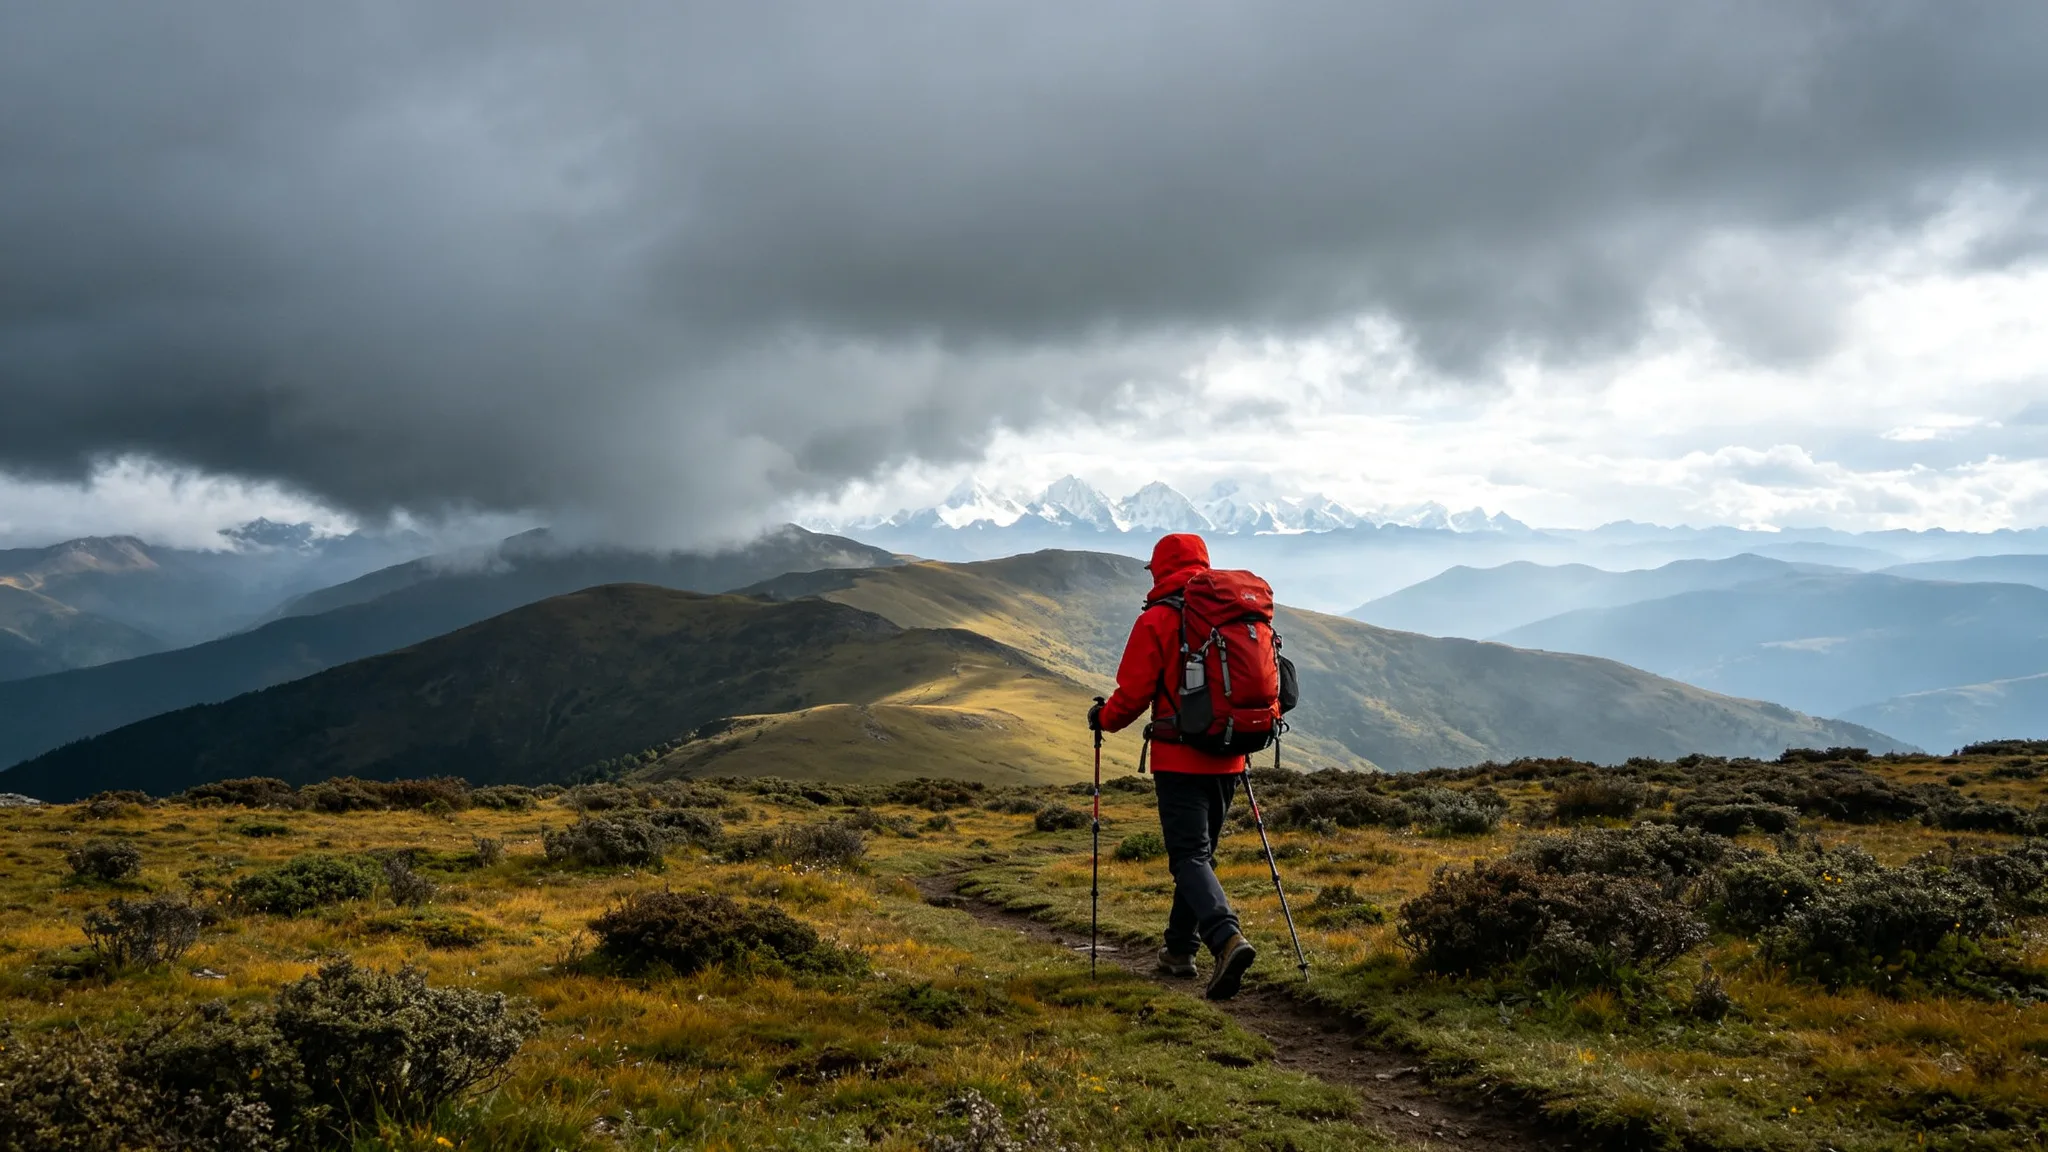
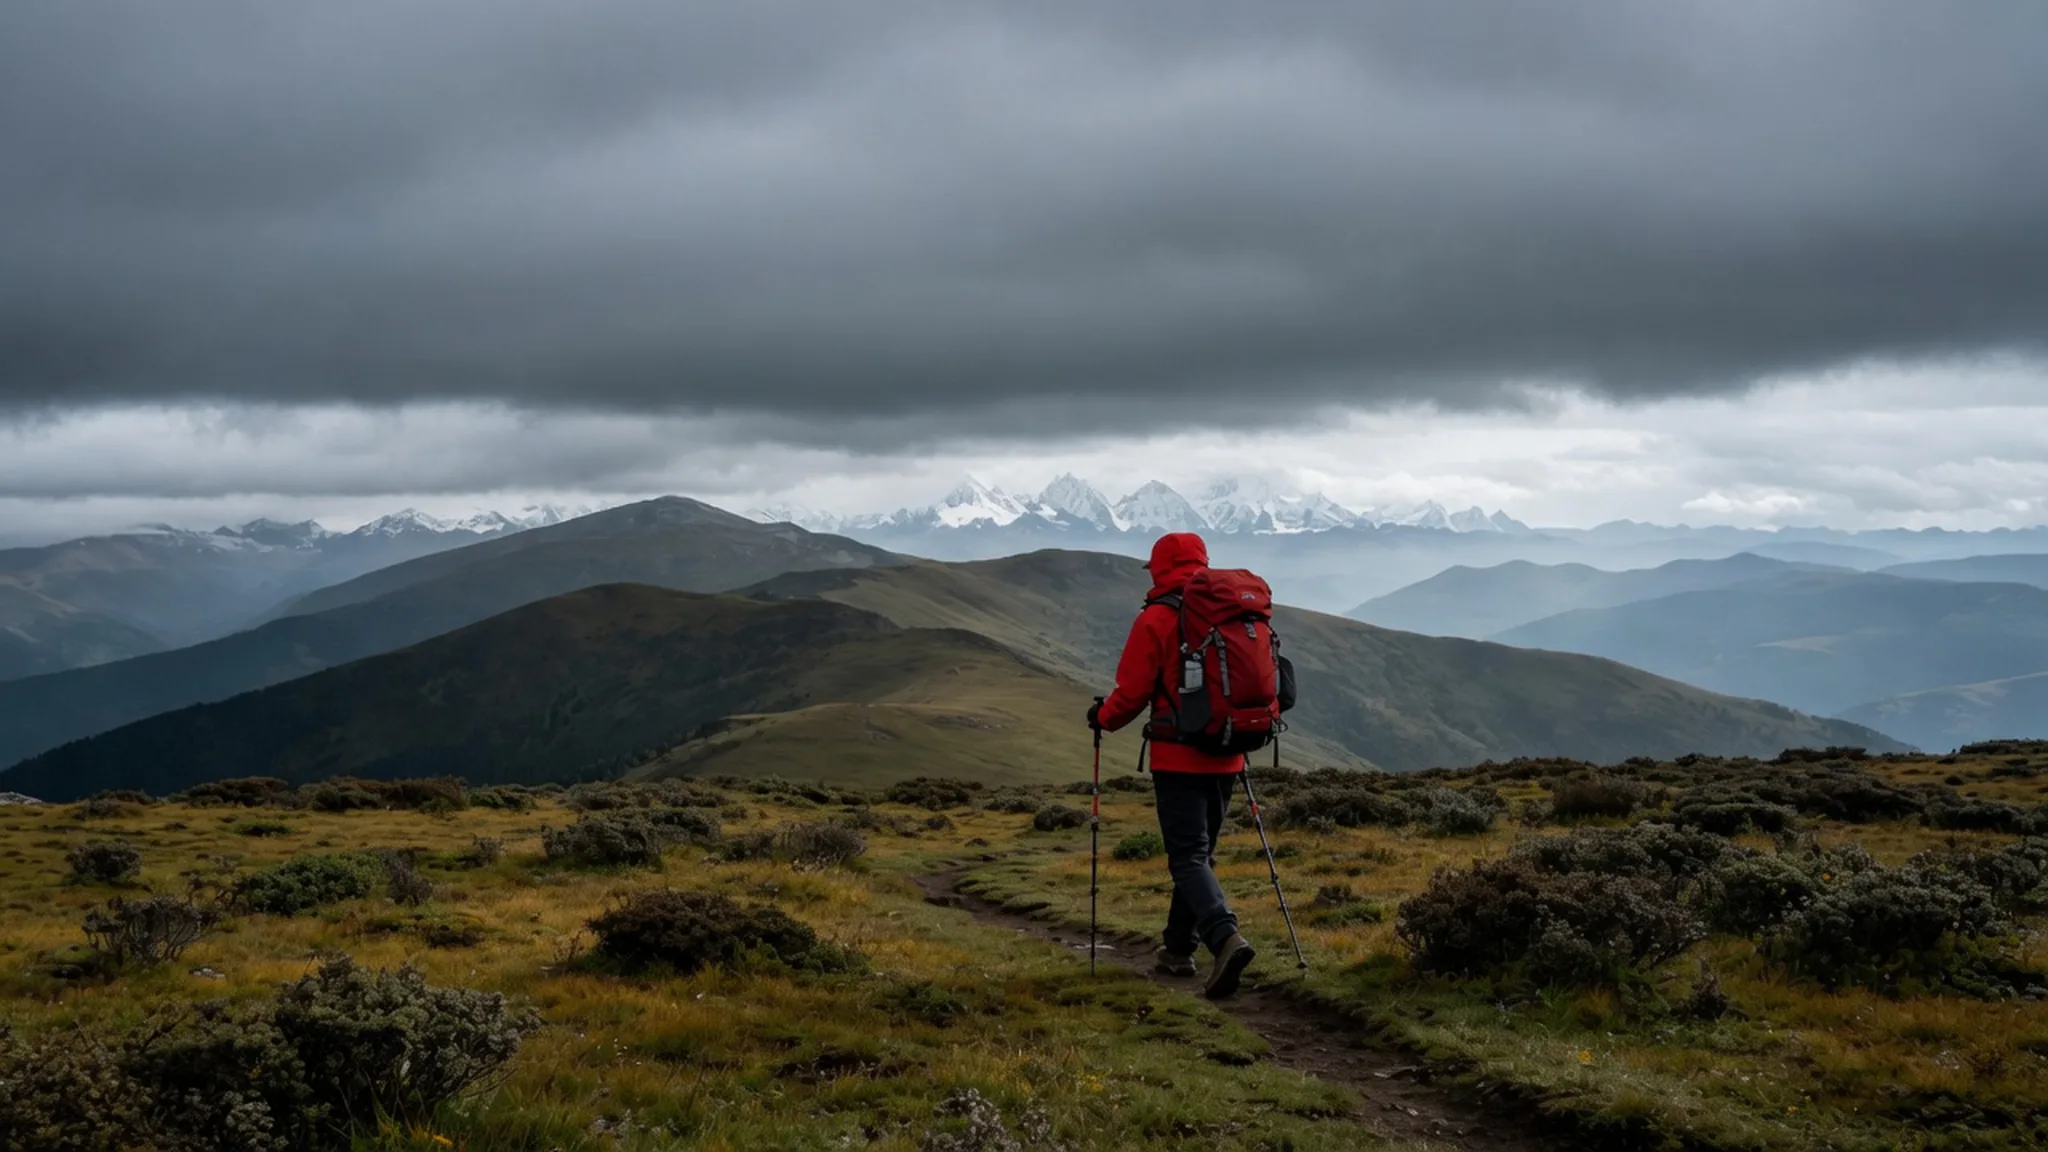
docs: 调整高原阴天晒伤笔记配图与图注

diff --git a/docs/docs/8000-生活笔记/100-户外/高原阴天更容易晒伤：紫外线、云层与体感的真相.md b/docs/docs/8000-生活笔记/100-户外/高原阴天更容易晒伤：紫外线、云层与体感的真相.md
@@ -43,7 +43,7 @@ description: "阴天凉快，不等于安全。云层挡得住热量、挡不住
 
 ![高原阴天徒步：云层低垂，紫外线无感而至](assets/高原阴天晒伤/cloudy-day-hiking.webp)
 
-阴沉天光的川西草甸山脊。体感凉快，不代表紫外线下班了。
+均匀阴沉的川西草甸山脊。体感凉快，不代表紫外线下班了。
 
 ## 云层挡热，不挡紫外线
 
@@ -71,7 +71,7 @@ description: "阴天凉快，不等于安全。云层挡得住热量、挡不住
 
 ![云层挡得住热量，挡不住紫外线](assets/高原阴天晒伤/uv-cloud-schematic.webp)
 
-橙色光线（热量与可见光）被云层拦下，紫色光线（紫外线）直接穿透。示意插画。
+可见光和红外线（热量）在云顶被拦住、反射；紫外线仍能穿过，全阴天大约还有三成到达地面，并带有侧向漫射。示意插画。
 
 :::info 为什么体感凉快？
 云层挡掉的，主要是可见光和红外线，也就是"亮度"和"热量"。所以阴天体感凉快、不刺眼，但这恰恰和紫外线强度是两回事。**凉快不等于安全。**
@@ -110,11 +110,11 @@ description: "阴天凉快，不等于安全。云层挡得住热量、挡不住
 
 **第二，大气稀薄，漫射增强。** 高海拔空气对紫外线的吸收、散射能力显著下降；阴天时紫外线里"漫射光"（从四面八方打过来的散射成分）占比更大。换句话说，高原阴天"没有太阳"也照样有大量紫外线从侧面、从头顶打到你，躲都躲不开。
 
-**第三，地表反射。** 新雪对紫外线的反射率高达`80%～95%`。雪线以上徒步，头顶直射加脚下反射，等于双重照射；即便阴天，反射分量依然存在。
+**第三，地表反射。** 新雪对紫外线的反射率高达`80%～95%`。雪线以上徒步，头顶来的紫外线加脚下反射，等于双重照射；即便阴天，反射分量依然存在。
 
 ![雪线之上，雪地是第二块"紫外线反光板"](assets/高原阴天晒伤/snow-reflection.webp)
 
-晴空下的雪坡反光明亮。新雪的紫外线反射率可达`80%～95%`，头顶与脚下双重照射。
+阴天的川西雪坡同样反光。新雪的紫外线反射率可达`80%～95%`，头顶散射加脚下反射，仍是双重照射。
 
 :::warning 云层增强效应
 多云、碎云天还有一个反直觉的现象：阳光被云侧反射后，与直射光叠加，地面紫外线瞬时强度**可以比晴天还高约25%**。户外人最严重的晒伤，常常发生在"不太晒、太阳若隐若现"的多云天。
